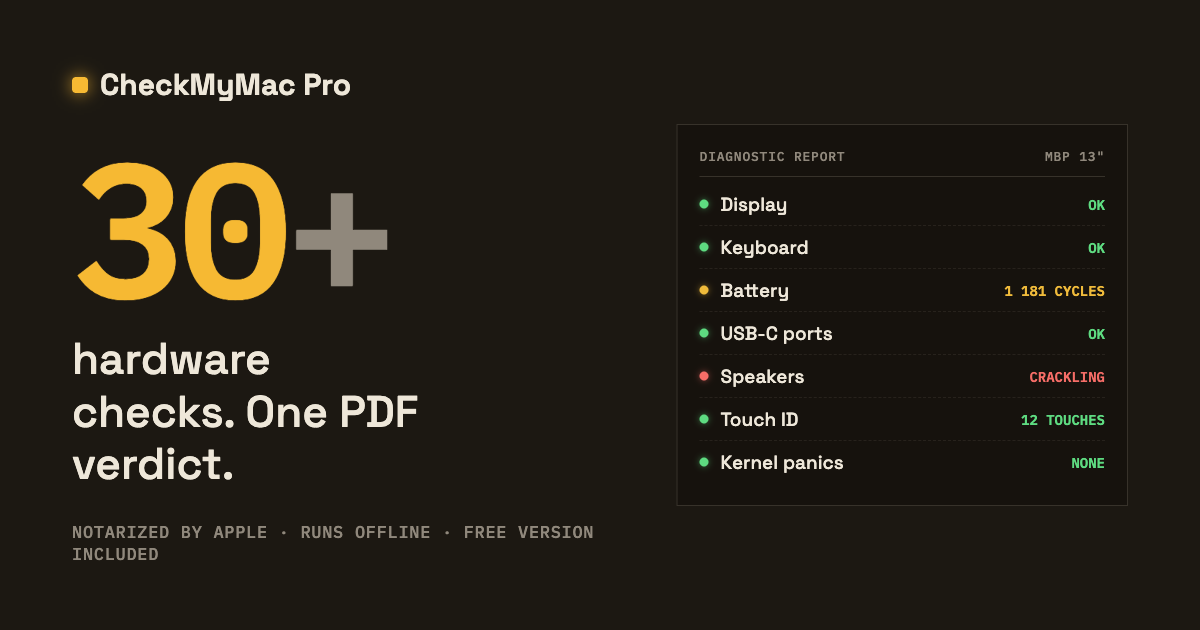
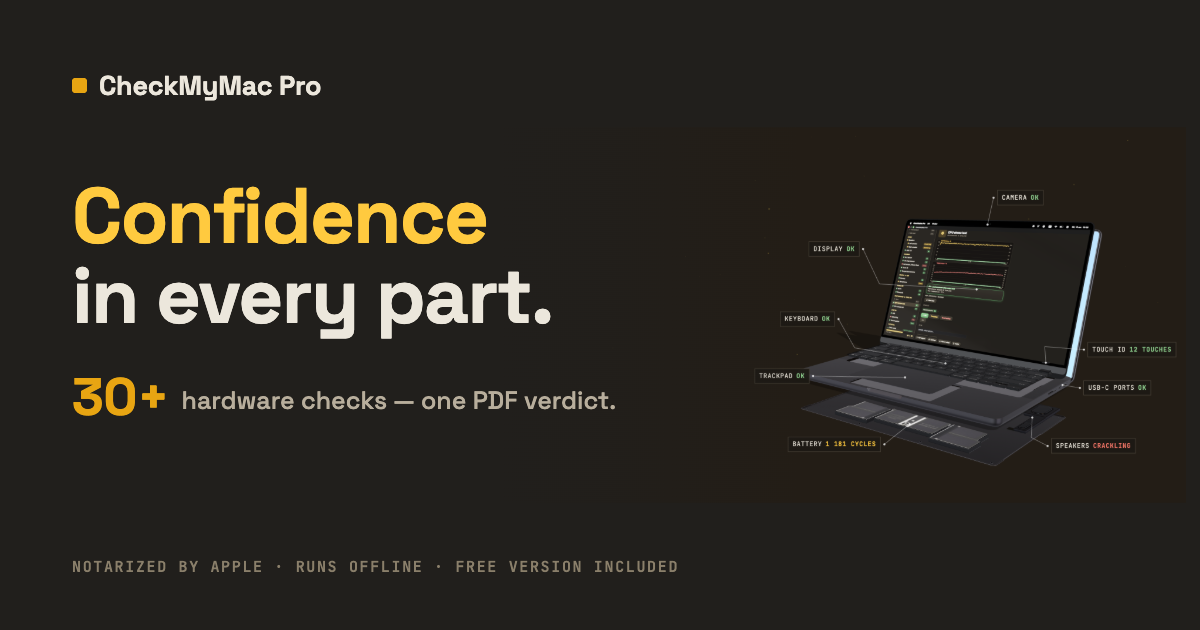
Сайт без «Pro», иконка программы в шапке, новая картинка для соцсетей
Убрано 25 текстовых упоминаний со всех шести страниц; имя файла загрузки
не тронуто. В шапке вместо нарисованного квадратика настоящая иконка
приложения. Картинка для соцсетей пересобрана под новый слоган: кадр
разобранного мака с бирками вместо старого макета.

diff --git a/img/og-src.html b/img/og-src.html
@@ -3,81 +3,58 @@
 <head>
 <meta charset="utf-8">
 <style>
-@import url("https://fonts.googleapis.com/css2?family=Space+Grotesk:wght@500;700&family=IBM+Plex+Mono:wght@500;600&display=swap");
+/* Исходник картинки для соцсетей. Снимается Playwright'ом в 1200×630 →  img/og.png
+   Шрифты локальные (те же, что на сайте) — интернет при съёмке не нужен. */
+@font-face { font-family: "Space Grotesk"; font-style: normal; font-weight: 400 700;
+  src: url(../assets/fonts/space-grotesk-latin.woff2) format("woff2"); font-display: block; }
+@font-face { font-family: "JetBrains Mono"; font-style: normal; font-weight: 400 600;
+  src: url(../assets/fonts/jetbrains-mono-latin.woff2) format("woff2"); font-display: block; }
+
 * { margin: 0; padding: 0; box-sizing: border-box; }
 html, body { width: 1200px; height: 630px; overflow: hidden; }
 body {
-  background: oklch(21% 0.012 75);
-  color: oklch(93% 0.02 85);
+  background: #211f1c;
+  color: #ece7dc;
   font-family: "Space Grotesk", sans-serif;
-  display: flex;
-  align-items: center;
-  gap: 56px;
-  padding: 0 72px;
+  position: relative;
 }
-.left { flex: 1.15; }
-.brand { display: flex; align-items: center; gap: 12px; font-size: 30px; font-weight: 700; }
-.brand::before {
-  content: ""; width: 16px; height: 16px; border-radius: 4px;
-  background: oklch(82% 0.155 82);
-  box-shadow: 0 0 16px oklch(82% 0.155 82 / 0.8);
+
+/* кадр героя справа, уходит за край и растворяется в фоне */
+.mac {
+  position: absolute; right: 14px; top: 50%; transform: translateY(-50%);
+  width: 690px; height: 376px;
+  background: url(og-mac.png) center / contain no-repeat;
 }
-.stat {
-  font-family: "IBM Plex Mono", monospace;
-  font-size: 190px; font-weight: 600; line-height: 1;
-  letter-spacing: -0.04em;
-  color: oklch(82% 0.155 82);
-  margin-top: 28px;
+.mac::after {
+  content: ""; position: absolute; inset: 0;
+  background: linear-gradient(90deg, #211f1c 0%, rgba(33,31,28,.8) 14%, transparent 44%);
 }
-.stat span { color: oklch(63% 0.02 80); }
-.q { font-size: 44px; font-weight: 500; line-height: 1.2; margin-top: 10px; max-width: 13ch; }
-.note {
-  font-family: "IBM Plex Mono", monospace;
-  font-size: 17px; letter-spacing: 0.04em;
-  color: oklch(63% 0.02 80);
-  margin-top: 30px;
+
+.copy { position: absolute; left: 72px; top: 68px; width: 620px; z-index: 2; }
+
+.brand { display: flex; align-items: center; gap: 12px; font-size: 27px; font-weight: 700; letter-spacing: -.01em; }
+.brand::before { content: ""; width: 15px; height: 15px; border-radius: 3px; background: #e8a512; }
+
+h1 { margin-top: 74px; font-size: 78px; font-weight: 700; line-height: 1.02; letter-spacing: -.02em; }
+h1 span { color: #ffca3f; }
+
+.stat { margin-top: 26px; font-size: 25px; font-weight: 500; color: #b8ae9c; line-height: 1.35; }
+.stat b { font-size: 52px; font-weight: 700; color: #e8a512; vertical-align: -6px; margin-right: 12px; }
+
+.foot {
+  position: absolute; left: 72px; bottom: 54px; z-index: 2;
+  font-family: "JetBrains Mono", monospace; font-size: 15px; font-weight: 600;
+  letter-spacing: .11em; color: #8a7f6a; text-transform: uppercase;
 }
-.right { flex: 0.85; border: 1px solid oklch(32% 0.015 78); background: oklch(18.5% 0.011 75); padding: 22px; }
-.rh {
-  display: flex; justify-content: space-between;
-  font-family: "IBM Plex Mono", monospace; font-size: 13px; letter-spacing: 0.06em;
-  text-transform: uppercase; color: oklch(63% 0.02 80);
-  border-bottom: 1px solid oklch(32% 0.015 78);
-  padding-bottom: 12px; margin-bottom: 6px;
-}
-ul { list-style: none; }
-li {
-  display: flex; align-items: center; gap: 12px;
-  padding: 9px 0; font-size: 19px;
-  border-bottom: 1px dashed oklch(32% 0.015 78 / 0.5);
-}
-li:last-child { border-bottom: 0; }
-.led { width: 9px; height: 9px; border-radius: 50%; background: oklch(80% 0.17 150); box-shadow: 0 0 7px oklch(80% 0.17 150 / 0.6); }
-.led.w { background: oklch(82% 0.15 85); box-shadow: 0 0 7px oklch(82% 0.15 85 / 0.6); }
-.led.b { background: oklch(70% 0.17 25); box-shadow: 0 0 7px oklch(70% 0.17 25 / 0.6); }
-.v { margin-left: auto; font-family: "IBM Plex Mono", monospace; font-size: 14px; font-weight: 600; color: oklch(80% 0.17 150); }
-.v.w { color: oklch(82% 0.15 85); }
-.v.b { color: oklch(70% 0.17 25); }
 </style>
 </head>
 <body>
-  <div class="left">
+  <div class="mac"></div>
+  <div class="copy">
     <div class="brand">CheckMyMac Pro</div>
-    <div class="stat">30<span>+</span></div>
-    <div class="q">hardware checks. One PDF verdict.</div>
-    <div class="note">NOTARIZED BY APPLE · RUNS OFFLINE · FREE VERSION INCLUDED</div>
+    <h1><span>Confidence</span><br>in every part.</h1>
+    <p class="stat"><b>30+</b>hardware checks — one PDF verdict.</p>
   </div>
-  <div class="right">
-    <div class="rh"><span>Diagnostic report</span><span>MBP 13"</span></div>
-    <ul>
-      <li><span class="led"></span>Display<b class="v">OK</b></li>
-      <li><span class="led"></span>Keyboard<b class="v">OK</b></li>
-      <li><span class="led w"></span>Battery<b class="v w">1 181 CYCLES</b></li>
-      <li><span class="led"></span>USB-C ports<b class="v">OK</b></li>
-      <li><span class="led b"></span>Speakers<b class="v b">CRACKLING</b></li>
-      <li><span class="led"></span>Touch ID<b class="v">12 TOUCHES</b></li>
-      <li><span class="led"></span>Kernel panics<b class="v">NONE</b></li>
-    </ul>
-  </div>
+  <div class="foot">Notarized by Apple · Runs offline · Free version included</div>
 </body>
 </html>

diff --git a/ru/index.html b/ru/index.html
@@ -3,7 +3,7 @@
 <head>
 <meta charset="utf-8">
 <meta name="viewport" content="width=device-width, initial-scale=1">
-<title>CheckMyMac Pro — полная диагностика MacBook перед покупкой, продажей или ремонтом</title>
+<title>CheckMyMac — полная диагностика MacBook перед покупкой, продажей или ремонтом</title>
 <meta name="description" content="30+ проверок железа в одной программе: батарея, порты, датчики, Touch ID, SSD, стресс-тесты — и PDF-отчёт на одну страницу. Есть бесплатная версия. Сделано сервисным центром Apple. macOS 10.15+, Intel и Apple Silicon.">
 <link rel="canonical" href="https://checkmymac.yoda-service.com/ru/">
 <link rel="alternate" hreflang="en" href="https://checkmymac.yoda-service.com/">
@@ -12,22 +12,22 @@
 <link rel="icon" type="image/png" sizes="32x32" href="/favicon-32.png">
 <link rel="apple-touch-icon" href="/apple-touch-icon.png">
 <meta property="og:type" content="website">
-<meta property="og:site_name" content="CheckMyMac Pro">
+<meta property="og:site_name" content="CheckMyMac">
 <meta property="og:locale" content="ru_RU">
-<meta property="og:title" content="CheckMyMac Pro — полная диагностика MacBook перед покупкой, продажей или ремонтом">
+<meta property="og:title" content="CheckMyMac — полная диагностика MacBook перед покупкой, продажей или ремонтом">
 <meta property="og:description" content="30+ проверок железа в одной программе — и PDF-отчёт на одну страницу. Есть бесплатная версия. Сделано сервисным центром Apple.">
 <meta property="og:url" content="https://checkmymac.yoda-service.com/ru/">
 <meta property="og:image" content="https://checkmymac.yoda-service.com/img/og.png">
 <meta name="twitter:card" content="summary_large_image">
 <link rel="preload" as="font" type="font/woff2" href="/assets/fonts/space-grotesk-latin.woff2" crossorigin>
 <link rel="preload" as="font" type="font/woff2" href="/assets/fonts/jetbrains-mono-latin.woff2" crossorigin>
-<link rel="stylesheet" href="../css/style.css?v=20260815e">
+<link rel="stylesheet" href="../css/style.css?v=20260815f">
 </head>
 <body>
 
 <div class="device">
   <header class="wrap nav">
-    <a class="brand" href="/ru/">CheckMyMac&nbsp;Pro</a>
+    <a class="brand" href="/ru/"><img src="../img/appicon.png" alt="" width="26" height="26">CheckMyMac</a>
     <div class="nav-right">
       <a class="lang" href="/" lang="en" hreflang="en">EN</a>
       <a class="nav-cta" href="#download">СКАЧАТЬ БЕСПЛАТНО</a>
@@ -40,7 +40,7 @@
     <div class="hero-copy">
       <h1><span>Уверенность</span><br>в каждой детали.</h1>
       <p class="hero-stat"><b>30+</b>проверок железа — и у мака не остаётся секретов.</p>
-      <p class="sub">CheckMyMac Pro прощупывает макбук насквозь: батарея, порты, датчики, Touch&nbsp;ID, температуры — а в конце отдаёт PDF-отчёт. Программу написал сервисный центр по ремонту Apple для тех, кто покупает, продаёт или чинит маки. Бесплатная версия — навсегда, без регистраций и пробных сроков.</p>
+      <p class="sub">CheckMyMac прощупывает макбук насквозь: батарея, порты, датчики, Touch&nbsp;ID, температуры — а в конце отдаёт PDF-отчёт. Программу написал сервисный центр по ремонту Apple для тех, кто покупает, продаёт или чинит маки. Бесплатная версия — навсегда, без регистраций и пробных сроков.</p>
       <div class="cta-row">
         <a class="btn-primary" href="https://github.com/JdYoda/checkmymac-site/releases/latest/download/CheckMyMacPro-1.5.21.dmg">Скачать бесплатно для macOS</a>
         <a class="link-cta" href="#pricing">Цены — от $12 →</a>
@@ -237,7 +237,7 @@
 
 <footer class="foot">
   <div class="wrap colophon">
-    CheckMyMac Pro — независимое приложение, выросшее из рабочего чек-листа крупного сервиса по ремонту Apple.<br>
+    CheckMyMac — независимое приложение, выросшее из рабочего чек-листа крупного сервиса по ремонту Apple.<br>
     Именно по этому списку там проверяют каждый входящий макбук.<br>
     <a href="mailto:yukkaperehenen@gmail.com">yukkaperehenen@gmail.com</a> · <a href="../privacy.html">Конфиденциальность (EN)</a> · <a href="../terms.html">Условия (EN)</a> · <a href="../refunds.html">Возвраты (EN)</a> · © 2026
   </div>

diff --git a/index.html b/index.html
@@ -3,7 +3,7 @@
 <head>
 <meta charset="utf-8">
 <meta name="viewport" content="width=device-width, initial-scale=1">
-<title>CheckMyMac Pro — full MacBook diagnostics before you buy, sell or repair</title>
+<title>CheckMyMac — full MacBook diagnostics before you buy, sell or repair</title>
 <meta name="description" content="30+ hardware checks in one app: battery, ports, sensors, Touch ID, SSD, stress tests — and a one-page PDF report. Free version included. Built by a Mac repair shop. macOS 10.15+, Intel & Apple Silicon, notarized by Apple.">
 <link rel="canonical" href="https://checkmymac.yoda-service.com/">
 <link rel="alternate" hreflang="en" href="https://checkmymac.yoda-service.com/">
@@ -12,21 +12,21 @@
 <link rel="icon" type="image/png" sizes="32x32" href="/favicon-32.png">
 <link rel="apple-touch-icon" href="/apple-touch-icon.png">
 <meta property="og:type" content="website">
-<meta property="og:site_name" content="CheckMyMac Pro">
-<meta property="og:title" content="CheckMyMac Pro — full MacBook diagnostics before you buy, sell or repair">
+<meta property="og:site_name" content="CheckMyMac">
+<meta property="og:title" content="CheckMyMac — full MacBook diagnostics before you buy, sell or repair">
 <meta property="og:description" content="30+ hardware checks in one app — and a one-page PDF report. Free version included. Built by a Mac repair shop.">
 <meta property="og:url" content="https://checkmymac.yoda-service.com/">
 <meta property="og:image" content="https://checkmymac.yoda-service.com/img/og.png">
 <meta name="twitter:card" content="summary_large_image">
 <link rel="preload" as="font" type="font/woff2" href="/assets/fonts/space-grotesk-latin.woff2" crossorigin>
 <link rel="preload" as="font" type="font/woff2" href="/assets/fonts/jetbrains-mono-latin.woff2" crossorigin>
-<link rel="stylesheet" href="css/style.css?v=20260815e">
+<link rel="stylesheet" href="css/style.css?v=20260815f">
 </head>
 <body>
 
 <div class="device">
   <header class="wrap nav">
-    <a class="brand" href="/">CheckMyMac&nbsp;Pro</a>
+    <a class="brand" href="/"><img src="img/appicon.png" alt="" width="26" height="26">CheckMyMac</a>
     <div class="nav-right">
       <a class="lang" href="/ru/" lang="ru" hreflang="ru">RU</a>
       <a class="nav-cta" href="#download">DOWNLOAD — FREE</a>
@@ -39,7 +39,7 @@
     <div class="hero-copy">
       <h1><span>Confidence</span><br>in every part.</h1>
       <p class="hero-stat"><b>30+</b>hardware checks — every hidden defect has nowhere to hide.</p>
-      <p class="sub">CheckMyMac Pro inspects every subsystem of a MacBook — battery, ports, sensors, Touch&nbsp;ID, thermals — and hands you a PDF report. Built by a Mac repair shop for people who buy, sell and service Macs. Free version included — no signup, no trial clock.</p>
+      <p class="sub">CheckMyMac inspects every subsystem of a MacBook — battery, ports, sensors, Touch&nbsp;ID, thermals — and hands you a PDF report. Built by a Mac repair shop for people who buy, sell and service Macs. Free version included — no signup, no trial clock.</p>
       <div class="cta-row">
         <a class="btn-primary" href="https://github.com/JdYoda/checkmymac-site/releases/latest/download/CheckMyMacPro-1.5.21.dmg">Download free for macOS</a>
         <a class="link-cta" href="#pricing">See pricing — from $12 →</a>
@@ -236,7 +236,7 @@
 
 <footer class="foot">
   <div class="wrap colophon">
-    CheckMyMac Pro — an independent app, built on the workflow of a large Apple repair service.<br>
+    CheckMyMac — an independent app, built on the workflow of a large Apple repair service.<br>
     It grew out of the checklist that bench runs on every incoming MacBook.<br>
     <a href="mailto:yukkaperehenen@gmail.com">yukkaperehenen@gmail.com</a> · <a href="privacy.html">Privacy</a> · <a href="terms.html">Terms</a> · <a href="refunds.html">Refunds</a> · © 2026
   </div>

diff --git a/refunds.html b/refunds.html
@@ -3,19 +3,19 @@
 <head>
 <meta charset="utf-8">
 <meta name="viewport" content="width=device-width, initial-scale=1">
-<title>Refund policy — CheckMyMac Pro</title>
+<title>Refund policy — CheckMyMac</title>
 <link rel="icon" type="image/png" sizes="32x32" href="/favicon-32.png">
 <link rel="stylesheet" href="legal.css?v=20260815">
 </head>
 <body>
-<header class="legal-nav"><a href="/">CheckMyMac&nbsp;Pro</a></header>
+<header class="legal-nav"><a href="/">CheckMyMac</a></header>
 <main class="legal">
   <a class="back" href="/">&larr; checkmymac.yoda-service.com</a>
   <h1>Refund policy</h1>
   <p class="updated">LAST UPDATED &middot; AUGUST 4, 2026</p>
 
   <h2>Try before you buy</h2>
-  <p>The free version of CheckMyMac Pro never expires and runs the core checks on your exact Mac. It exists so you can see how the app behaves on your machine before paying — please start there.</p>
+  <p>The free version of CheckMyMac never expires and runs the core checks on your exact Mac. It exists so you can see how the app behaves on your machine before paying — please start there.</p>
 
   <h2>14-day guarantee: it works, or your money back</h2>
   <p>If the full version fails to work on your Mac — a test doesn't run, activation fails, the app misbehaves — email <a href="mailto:yukkaperehenen@gmail.com">yukkaperehenen@gmail.com</a> within 14 days of purchase with your order number and a short note about the problem. If we can't fix it for you, we refund the purchase in full.</p>
@@ -30,6 +30,6 @@
   <h2>Abuse</h2>
   <p>We reserve the right to decline a refund in clear cases of abuse — for example, repeated purchase-and-refund cycles on the same or related accounts.</p>
 </main>
-<footer class="legal-foot">CheckMyMac Pro · <a href="/">checkmymac.yoda-service.com</a> · © 2026</footer>
+<footer class="legal-foot">CheckMyMac · <a href="/">checkmymac.yoda-service.com</a> · © 2026</footer>
 </body>
 </html>

diff --git a/terms.html b/terms.html
@@ -3,19 +3,19 @@
 <head>
 <meta charset="utf-8">
 <meta name="viewport" content="width=device-width, initial-scale=1">
-<title>Terms — CheckMyMac Pro</title>
+<title>Terms — CheckMyMac</title>
 <link rel="icon" type="image/png" sizes="32x32" href="/favicon-32.png">
 <link rel="stylesheet" href="legal.css?v=20260815">
 </head>
 <body>
-<header class="legal-nav"><a href="/">CheckMyMac&nbsp;Pro</a></header>
+<header class="legal-nav"><a href="/">CheckMyMac</a></header>
 <main class="legal">
   <a class="back" href="/">&larr; checkmymac.yoda-service.com</a>
   <h1>Terms of use</h1>
   <p class="updated">LAST UPDATED &middot; AUGUST 4, 2026</p>
 
   <h2>The product</h2>
-  <p>CheckMyMac Pro is a macOS application for hardware diagnostics of MacBook computers, published by an independent developer. The free version can be downloaded and used without a license. Paid tiers are sold as a one-time purchase — no subscription.</p>
+  <p>CheckMyMac is a macOS application for hardware diagnostics of MacBook computers, published by an independent developer. The free version can be downloaded and used without a license. Paid tiers are sold as a one-time purchase — no subscription.</p>
 
   <h2>Free version</h2>
   <p>The free tier requires no license, no account and no internet. You may download it, use it and pass the unmodified DMG along. The official download source is this website and its GitHub Releases page.</p>
@@ -42,6 +42,6 @@
   <h2>Contact</h2>
   <p><a href="mailto:yukkaperehenen@gmail.com">yukkaperehenen@gmail.com</a></p>
 </main>
-<footer class="legal-foot">CheckMyMac Pro · <a href="/">checkmymac.yoda-service.com</a> · © 2026</footer>
+<footer class="legal-foot">CheckMyMac · <a href="/">checkmymac.yoda-service.com</a> · © 2026</footer>
 </body>
 </html>

diff --git a/privacy.html b/privacy.html
@@ -3,18 +3,18 @@
 <head>
 <meta charset="utf-8">
 <meta name="viewport" content="width=device-width, initial-scale=1">
-<title>Privacy — CheckMyMac Pro</title>
+<title>Privacy — CheckMyMac</title>
 <link rel="icon" type="image/png" sizes="32x32" href="/favicon-32.png">
 <link rel="stylesheet" href="legal.css?v=20260815">
 </head>
 <body>
-<header class="legal-nav"><a href="/">CheckMyMac&nbsp;Pro</a></header>
+<header class="legal-nav"><a href="/">CheckMyMac</a></header>
 <main class="legal">
   <a class="back" href="/">&larr; checkmymac.yoda-service.com</a>
   <h1>Privacy policy</h1>
   <p class="updated">LAST UPDATED &middot; AUGUST 4, 2026</p>
 
-  <p>CheckMyMac Pro is built to be run on machines you are inspecting — including machines you don't own yet. So the privacy rule is simple: the app looks at hardware and keeps what it sees on that Mac.</p>
+  <p>CheckMyMac is built to be run on machines you are inspecting — including machines you don't own yet. So the privacy rule is simple: the app looks at hardware and keeps what it sees on that Mac.</p>
 
   <h2>What the app reads</h2>
   <p>Hardware state only: battery health, port topology, sensor readings, model identifiers and system diagnostics logs. This data is used to render checks and reports on the Mac where the app runs.</p>
@@ -39,6 +39,6 @@
   <h2>Contact</h2>
   <p>Questions: <a href="mailto:yukkaperehenen@gmail.com">yukkaperehenen@gmail.com</a>.</p>
 </main>
-<footer class="legal-foot">CheckMyMac Pro · <a href="/">checkmymac.yoda-service.com</a> · © 2026</footer>
+<footer class="legal-foot">CheckMyMac · <a href="/">checkmymac.yoda-service.com</a> · © 2026</footer>
 </body>
 </html>

diff --git a/css/style.css b/css/style.css
@@ -139,8 +139,8 @@ img { max-width: 100%; }
 /* ── тёмная зона-прибор ─────────────────────────────────────────────── */
 .device { background: var(--coal); color: var(--ink-on-coal); }
 .nav { display: flex; justify-content: space-between; align-items: center; padding: 22px 24px; position: relative; z-index: 20; }
-.brand { font: 700 19px var(--font-d); color: var(--ink-on-coal); text-decoration: none; }
-.brand::before { content: ""; display: inline-block; width: 10px; height: 10px; background: var(--amber); margin-right: 9px; }
+.brand { display: inline-flex; align-items: center; gap: 10px; font: 700 19px var(--font-d); color: var(--ink-on-coal); text-decoration: none; }
+.brand img { width: 26px; height: 26px; border-radius: 6px; display: block; }
 .nav-right { display: flex; align-items: center; gap: 18px; }
 .lang { font: 600 12px var(--font-m); letter-spacing: .1em; color: var(--dim-on-coal); text-decoration: none; }
 .lang:hover { color: var(--ink-on-coal); }

diff --git a/404.html b/404.html
@@ -3,7 +3,7 @@
 <head>
 <meta charset="utf-8">
 <meta name="viewport" content="width=device-width, initial-scale=1">
-<title>404 — CheckMyMac Pro</title>
+<title>404 — CheckMyMac</title>
 <meta name="robots" content="noindex">
 <link rel="icon" type="image/png" sizes="32x32" href="/favicon-32.png">
 <link rel="stylesheet" href="/legal.css?v=20260804">
